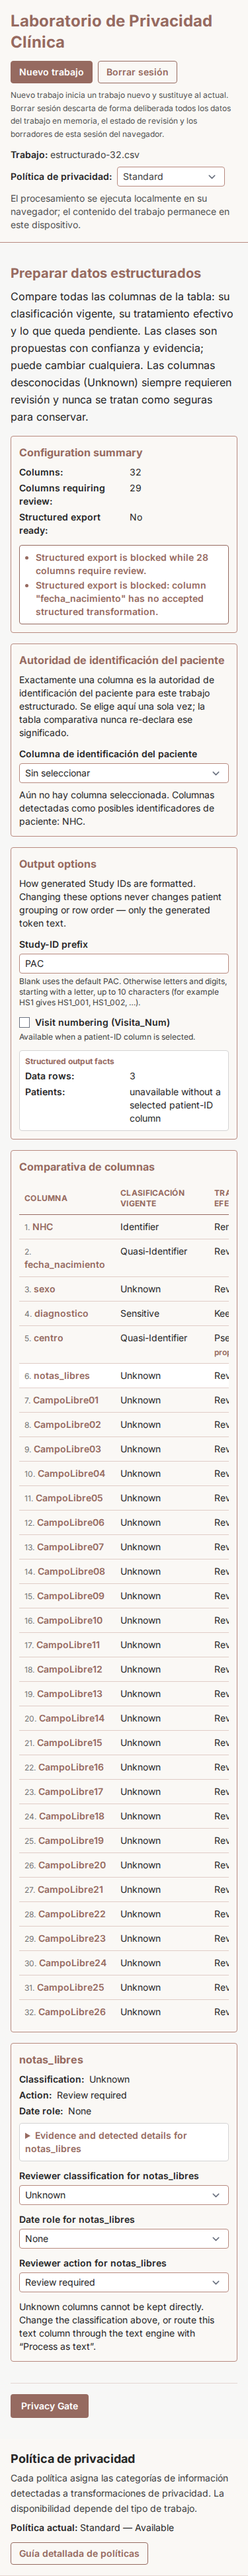
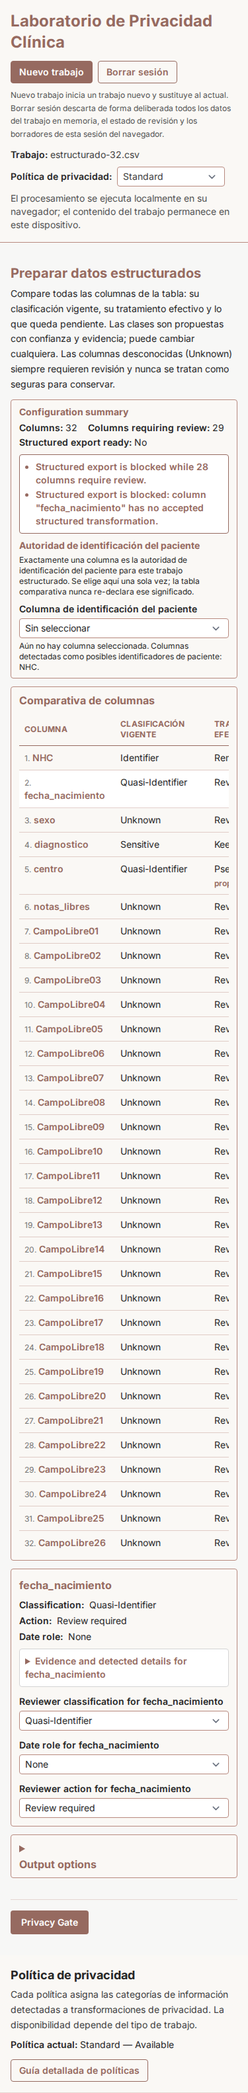
fix(issue85): fail-close stale structured Result + compact composed Configure hierarchy
Correction attempt #1 for C-087 issue #85 review findings (candidate dd0fac2).

Finding 1 (stale Result navigation after readiness invalidation, handoff
§3.4/§3.6):
- TaskActionBar 'Ir al resultado' is now disabled for a structured job whose
  current derived output gate is closed (job.kind === 'structured' &&
  !job.review.complete; withDerivedStructuredState derives review.complete
  from preparation.status === 'ready', so it IS the current structured gate);
- handleGoToStep refuses the structured export transition as well, so the
  stale Result is refused, not merely visually disabled. Batch decoupling
  (REC-07 #87), the text/document singleResultRevisitAuthorized exception,
  the review-step 'Ver resultado' gate and all Privacy Gate visibility
  (G-HP2) stay untouched;
- focused proof in App.test.tsx: ready structured Result visited once,
  returned to Configure, a column resolved back to Unknown blocks the
  preparation again, and at the Privacy Gate 'Ir al resultado' is disabled
  with no navigation occurring.

Finding 2 (composed hierarchy, handoff §2):
- ConfigurationSummary + PatientIdAuthority compacted into ONE short header
  band directly under the task heading/intro;
- the comparative table + contextual inspector sit immediately beneath the
  band (table starts inside the 1280x800 fold);
- OutputOptionsSection moved below the table/inspector, collapsed behind a
  native keyboard-operable <details>/<summary> disclosure; all controls, ids
[…]

Changed region(s): [[0.0293, 0.0, 0.9387, 1.0]]

diff --git a/app-v4/src/structured/StructuredConfigureWorkspace.tsx b/app-v4/src/structured/StructuredConfigureWorkspace.tsx
@@ -221,7 +221,7 @@ export function StructuredConfigureWorkspace(
       <h2 id="configure-step-heading" className="font-display text-xl font-bold text-primary-dark">
         Preparar datos estructurados
       </h2>
-      <p className="mt-2 max-w-3xl text-base leading-relaxed">
+      <p className="mt-1.5 text-sm leading-relaxed">
         Compare todas las columnas de la tabla: su clasificación vigente, su tratamiento efectivo y
         lo que queda pendiente. Las clases son propuestas con confianza y evidencia; puede cambiar
         cualquiera. Las columnas desconocidas (Unknown) siempre requieren revisión y nunca se tratan
@@ -445,13 +445,20 @@ function ConfigurationView(props: {
   const handleInspectorDateRole = withSelection(onSetDateRole);
 
   return (
-    <div className="mt-4 space-y-4">
-      <ConfigurationSummary configuration={configuration} exportReadiness={exportReadiness} />
-      <PatientIdAuthority configuration={configuration} onSelectPatientId={onSelectPatientId} />
-      {outputOptions !== null && outputOptions !== undefined && (
-        <OutputOptionsSection outputOptions={outputOptions} />
-      )}
-      <div className="grid items-start gap-4 lg:grid-cols-[minmax(0,1.8fr)_minmax(280px,1fr)]">
+    <div className="mt-3 space-y-3">
+      {/*
+        Issue #85 composed-hierarchy correction (review finding 2): ONE short
+        header band directly under the task heading/intro — compact readiness
+        facts + block-reason alerts and the single patient-ID authority — so
+        the dominant comparison table starts immediately beneath it and stays
+        inside the initial 1280×800 fold. Pure layout/compaction: every fact,
+        control id, callback and fail-closed alert below is unchanged.
+      */}
+      <div className="grid items-start gap-x-4 gap-y-2 rounded border border-primary bg-surface-light px-3 py-2 lg:grid-cols-[minmax(0,1fr)_minmax(300px,1.1fr)]">
+        <ConfigurationSummary configuration={configuration} exportReadiness={exportReadiness} />
+        <PatientIdAuthority configuration={configuration} onSelectPatientId={onSelectPatientId} />
+      </div>
+      <div className="grid items-start gap-3 lg:grid-cols-[minmax(0,1.8fr)_minmax(280px,1fr)]">
         <ColumnComparisonTable
           configuration={configuration}
           patientIdIndex={
@@ -480,11 +487,36 @@ function ConfigurationView(props: {
           />
         )}
       </div>
+      {outputOptions !== null && outputOptions !== undefined && (
+        <details className="rounded border border-primary bg-surface-light">
+          {/*
+            Issue #85 composed-hierarchy correction (review finding 2): the
+            bounded output options sit BELOW the dominant comparison table,
+            collapsed behind a native, keyboard-operable disclosure (same
+            pattern as the inspector's evidence disclosure). Nothing is
+            removed: expanding reveals the same controls, ids, hints and
+            fail-closed alerts, and the heading stays the summary label.
+          */}
+          <summary
+            className={`cursor-pointer select-none px-3 py-2 font-display text-base font-bold text-primary-dark ${focusRing}`}
+          >
+            <h3>Output options</h3>
+          </summary>
+          <div className="px-3 pb-3">
+            <OutputOptionsSection outputOptions={outputOptions} />
+          </div>
+        </details>
+      )}
     </div>
   );
 }
 
-/** Factual summary: counts and the structured export gate (never a score). */
+/**
+ * Factual summary: counts and the structured export gate (never a score).
+ * Issue #85 composed-hierarchy correction (review finding 2): compacted into
+ * the single header band — same facts, same `role="status"`/`role="alert"`
+ * oracles, tighter layout.
+ */
 function ConfigurationSummary(props: {
   configuration: StructuredConfiguration;
   exportReadiness: { readonly ready: boolean; readonly reasons: readonly string[] } | null;
@@ -494,28 +526,31 @@ function ConfigurationSummary(props: {
   const ready = exportReadiness === null ? configuration.exportReady : exportReadiness.ready;
   const reasons = exportReadiness === null ? [] : exportReadiness.reasons;
   return (
-    <section
-      aria-label="Structured configuration summary"
-      className="rounded border border-primary bg-surface-light p-3"
-    >
-      <h3 className="font-display text-base font-bold text-primary-dark">Configuration summary</h3>
+    <section aria-label="Structured configuration summary" className="min-w-0">
+      <h3 className="font-display text-sm font-bold text-primary-dark">Configuration summary</h3>
       <dl
         role="status"
         aria-label="Structured configuration facts"
-        className="mt-2 grid grid-cols-2 gap-x-4 gap-y-1 text-sm text-neutral-800"
+        className="mt-1 flex flex-wrap gap-x-4 gap-y-0.5 text-sm text-neutral-800"
       >
-        <dt className="font-semibold">Columns:</dt>
-        <dd> {configuration.columns.length}</dd>
-        <dt className="font-semibold">Columns requiring review:</dt>
-        <dd> {pending}</dd>
-        <dt className="font-semibold">Structured export ready:</dt>
-        <dd> {ready ? "Yes" : "No"}</dd>
+        <div className="flex gap-1">
+          <dt className="font-semibold">Columns:</dt>
+          <dd> {configuration.columns.length}</dd>
+        </div>
+        <div className="flex gap-1">
+          <dt className="font-semibold">Columns requiring review:</dt>
+          <dd> {pending}</dd>
+        </div>
+        <div className="flex gap-1">
+          <dt className="font-semibold">Structured export ready:</dt>
+          <dd> {ready ? "Yes" : "No"}</dd>
+        </div>
       </dl>
       {reasons.length > 0 ? (
         <ul
           role="alert"
           aria-label="Structured export block reasons"
-          className="mt-3 list-disc space-y-0.5 rounded border border-primary-dark bg-white px-3 py-2 pl-6 text-sm font-semibold text-primary-dark"
+          className="mt-2 list-disc space-y-0.5 rounded border border-primary-dark bg-white px-3 py-2 pl-6 text-sm font-semibold text-primary-dark"
         >
           {reasons.map((reason, index) => (
             <li key={index}>{reason}</li>
@@ -525,7 +560,7 @@ function ConfigurationSummary(props: {
         pending > 0 && (
           <p
             role="alert"
-            className="mt-3 rounded border border-primary-dark bg-white px-3 py-2 text-sm font-semibold text-primary-dark"
+            className="mt-2 rounded border border-primary-dark bg-white px-3 py-2 text-sm font-semibold text-primary-dark"
           >
             {pending === 1
               ? "Structured export is blocked while 1 column requires review."
@@ -538,7 +573,12 @@ function ConfigurationSummary(props: {
   );
 }
 
-/** The single patient-ID authority (SPEC §6), shown exactly once. */
+/**
+ * The single patient-ID authority (SPEC §6), shown exactly once. Issue #85
+ * composed-hierarchy correction (review finding 2): compacted into the header
+ * band beside the readiness facts — same selector (`patient-id-column`), same
+ * callbacks, same status/alert notes.
+ */
 function PatientIdAuthority(props: {
   configuration: StructuredConfiguration;
   onSelectPatientId: (header: string | null) => void;
@@ -548,19 +588,19 @@ function PatientIdAuthority(props: {
   return (
     <section
       aria-label="Autoridad de identificación del paciente"
-      className="rounded border border-primary bg-surface-light p-3"
+      className="min-w-0 border-neutral-300 lg:border-l lg:pl-4"
     >
-      <h3 className="font-display text-base font-bold text-primary-dark">
+      <h3 className="font-display text-sm font-bold text-primary-dark">
         Autoridad de identificación del paciente
       </h3>
-      <p className="mt-2 text-sm text-neutral-800">
+      <p className="mt-1 text-xs text-neutral-800">
         Exactamente una columna es la autoridad de identificación del paciente para este trabajo
         estructurado. Se elige aquí una sola vez; la tabla comparativa nunca re-declara ese
         significado.
       </p>
       <label
         htmlFor="patient-id-column"
-        className="mt-3 block text-sm font-semibold text-neutral-800"
+        className="mt-2 block text-sm font-semibold text-neutral-800"
       >
         Columna de identificación del paciente
       </label>
@@ -570,7 +610,7 @@ function PatientIdAuthority(props: {
         onChange={(event) =>
           onSelectPatientId(event.target.value === "" ? null : event.target.value)
         }
-        className={`mt-1 w-full max-w-sm rounded border border-primary bg-white px-2 py-1 text-sm ${focusRing}`}
+        className={`mt-1 w-full max-w-xs rounded border border-primary bg-white px-2 py-1 text-sm ${focusRing}`}
       >
         <option value="">Sin seleccionar</option>
         {configuration.columns.map((column) => (
@@ -580,19 +620,19 @@ function PatientIdAuthority(props: {
         ))}
       </select>
       {patientId.status === "resolved" && (
-        <p className="mt-2 text-sm text-neutral-800">
+        <p className="mt-1 text-xs text-neutral-800">
           <span className="font-semibold">Seleccionada:</span> {patientId.column}
         </p>
       )}
       {patientId.status === "not-selected" && (
-        <p className="mt-2 text-sm text-neutral-800">
+        <p className="mt-1 text-xs text-neutral-800">
           {patientId.candidates.length > 0
             ? `Aún no hay columna seleccionada. Columnas detectadas como posibles identificadores de paciente: ${patientId.candidates.join(", ")}.`
             : "Aún no hay columna seleccionada y no se detectó ninguna columna parecida a un identificador de paciente. Elija una explícitamente."}
         </p>
       )}
       {patientId.status === "selection-error" && (
-        <p role="alert" className="mt-2 text-sm font-semibold text-primary-dark">
+        <p role="alert" className="mt-1 text-xs font-semibold text-primary-dark">
           {patientId.message}
         </p>
       )}
@@ -600,19 +640,21 @@ function PatientIdAuthority(props: {
   );
 }
 
-/** Bounded structured output options (REC-04 WU-B, D-022): prefix + visit numbering + facts. */
+/**
+ * Bounded structured output options (REC-04 WU-B, D-022): prefix + visit numbering + facts.
+ * Issue #85 composed-hierarchy correction (review finding 2): rendered below
+ * the comparison table, collapsed behind the native disclosure whose summary
+ * carries the section heading — every control, id, hint and fail-closed
+ * alert here is unchanged and reachable after expanding.
+ */
 function OutputOptionsSection(props: {
   outputOptions: NonNullable<StructuredConfigureWorkspaceProps["outputOptions"]>;
 }): ReactElement {
   const { outputOptions } = props;
   const { summary } = outputOptions;
   return (
-    <section
-      aria-label="Structured output options"
-      className="rounded border border-primary bg-surface-light p-3"
-    >
-      <h3 className="font-display text-base font-bold text-primary-dark">Output options</h3>
-      <p className="mt-2 text-sm text-neutral-800">
+    <section aria-label="Structured output options">
+      <p className="mt-1 text-sm text-neutral-800">
         How generated Study IDs are formatted. Changing these options never changes patient grouping
         or row order — only the generated token text.
       </p>
@@ -713,7 +755,7 @@ function ColumnComparisonTable(props: {
 }): ReactElement {
   const { configuration, patientIdIndex, selectedColumnIndex, onSelectColumn } = props;
   return (
-    <section className="min-w-0 rounded border border-primary bg-surface-light p-3">
+    <section className="min-w-0 rounded border border-primary bg-surface-light px-3 py-2">
       <h3 className="font-display text-base font-bold text-primary-dark">
         Comparativa de columnas
       </h3>
@@ -726,7 +768,7 @@ function ColumnComparisonTable(props: {
         role="region"
         aria-label="Tabla comparativa de columnas (desplazable en pantallas estrechas)"
         tabIndex={0}
-        className={`mt-3 overflow-x-auto ${focusRing}`}
+        className={`mt-2 overflow-x-auto ${focusRing}`}
       >
         <table
           aria-label="Column classification list"

diff --git a/app-v4/src/App.test.tsx b/app-v4/src/App.test.tsx
@@ -1671,6 +1671,55 @@ describe("App structured Configure workspace (T20 #24)", () => {
     );
   });
 
+  it("never offers a stale structured Result after readiness is invalidated again (issue #85 §3.6)", async () => {
+    createStructuredJob(CSV);
+    await screen.findByRole("table", { name: /column classification list/i });
+    // Reach the ready structured Result once: explicit Unknown resolution and
+    // an explicit date role make the preparation ready.
+    fireEvent.click(rowSelectButton("CampoLibre"));
+    fireEvent.change(screen.getByLabelText("Reviewer classification for CampoLibre"), {
+      target: { value: "insensitive" },
+    });
+    fireEvent.click(rowSelectButton("Fecha_Nac"));
+    fireEvent.change(screen.getByLabelText("Date role for Fecha_Nac"), {
+      target: { value: "birth" },
+    });
+    fireEvent.click(taskButton("Privacy Gate"));
+    await waitFor(() => expect(taskButton("Ir al resultado")).toBeEnabled());
+    fireEvent.click(taskButton("Ir al resultado"));
+    // The structured Result workspace (heading «Export») is reached once.
+    await screen.findByRole("heading", { level: 2, name: "Export" });
+
+    // Historical Result visit: return to meaningful Configure (issue #85
+    // §3.4) and resolve a column back to Unknown so the preparation blocks
+    // again (§3.6: policy/readiness later invalidates Result).
+    fireEvent.click(taskButton("Volver a la configuración"));
+    await screen.findByRole("table", { name: /column classification list/i });
+    fireEvent.click(rowSelectButton("CampoLibre"));
+    fireEvent.change(screen.getByLabelText("Reviewer classification for CampoLibre"), {
+      target: { value: "unknown" },
+    });
+    expect(
+      screen.getByRole("status", { name: /structured configuration facts/i })
+    ).toHaveTextContent("Structured export ready: No");
+
+    // The Privacy Gate itself stays reachable and enabled (G-HP2), but the
+    // Result affordance does NOT resurrect from the historical visit: for a
+    // structured job `review.complete` is the CURRENT derived output gate
+    // (`withDerivedStructuredState`), and it is false again.
+    fireEvent.click(taskButton("Privacy Gate"));
+    expect(
+      await screen.findByRole("status", { name: /structured export facts/i })
+    ).toBeInTheDocument();
+    const resultAction = taskButton("Ir al resultado");
+    expect(resultAction).toBeDisabled();
+    // A click on the disabled affordance performs NO navigation: the shell
+    // stays on the Privacy Gate, never on a stale Result.
+    fireEvent.click(resultAction);
+    expect(screen.getByRole("status", { name: /structured export facts/i })).toBeInTheDocument();
+    expect(screen.queryByRole("heading", { level: 2, name: "Export" })).not.toBeInTheDocument();
+  });
+
   it("refuses a multi-file structured selection fail-closed", async () => {
     render(<App />);
     const first = new File(["a,b\n1,2"], "one.csv", { type: "text/csv" });

diff --git a/app-v4/src/App.tsx b/app-v4/src/App.tsx
@@ -572,6 +572,16 @@ export function App() {
       ) {
         return;
       }
+      // Issue #85 §3.6: refuse a structured Result navigation whose readiness
+      // was later invalidated. `withDerivedStructuredState` derives the
+      // structured `review.complete` from the CURRENT preparation status, so
+      // this is the same fail-closed gate the disabled button above exposes —
+      // the transition is refused, not merely visually disabled. No structured
+      // provenance exception exists (batches are decoupled, REC-07 #87;
+      // structured work records none).
+      if (step === "export" && job !== null && job.kind === "structured" && !job.review.complete) {
+        return;
+      }
       session.navigate(step);
       // Provenance recording (issue #84 correction, journey A): a SUCCESSFUL
       // navigation INTO the Result is the one legitimate single-item Result
@@ -1438,7 +1448,15 @@ function TaskActionBar(props: {
           !isStepAccessible(job, "export") ||
           ((job.kind === "text" || job.kind === "document") &&
             !job.review.complete &&
-            !singleResultRevisitAuthorized)
+            !singleResultRevisitAuthorized) ||
+          // Issue #85 §3.6: a structured Result becomes stale when a later
+          // readiness invalidation re-blocks the preparation. For structured
+          // jobs `withDerivedStructuredState` (useJobSession.ts) derives
+          // `review.complete` from `preparation.status === "ready"`, so it IS
+          // the current structured output gate — no second readiness source is
+          // consulted here. Historical Result visits never authorize a stale
+          // one (no structured provenance exception exists).
+          (job.kind === "structured" && !job.review.complete)
         }
         className={primaryAction}
       >

diff --git a/e2e/structured-rec04-composed.spec.ts b/e2e/structured-rec04-composed.spec.ts
@@ -209,7 +209,11 @@ async function createAndConfigureComposedJob(page: Page): Promise<void> {
   await expect(columnRow(page, "Notas")).toContainText("Process as text");
 
   // Output options: custom prefix; visit numbering is enabled by the
-  // patient-ID heritage default.
+  // patient-ID heritage default. (Issue #85 composed-hierarchy correction:
+  // the options area now sits below the comparison table, collapsed behind a
+  // native disclosure — this selector-only expansion keeps every control
+  // reachable; the assertions themselves are unchanged.)
+  await page.locator("summary").filter({ hasText: "Output options" }).click();
   await page.getByLabel("Study-ID prefix").fill("hs1");
   await expect(page.getByLabel("Visit numbering (Visita_Num)")).toBeChecked();
   const facts = page.getByRole("status", { name: "Structured output facts" });
